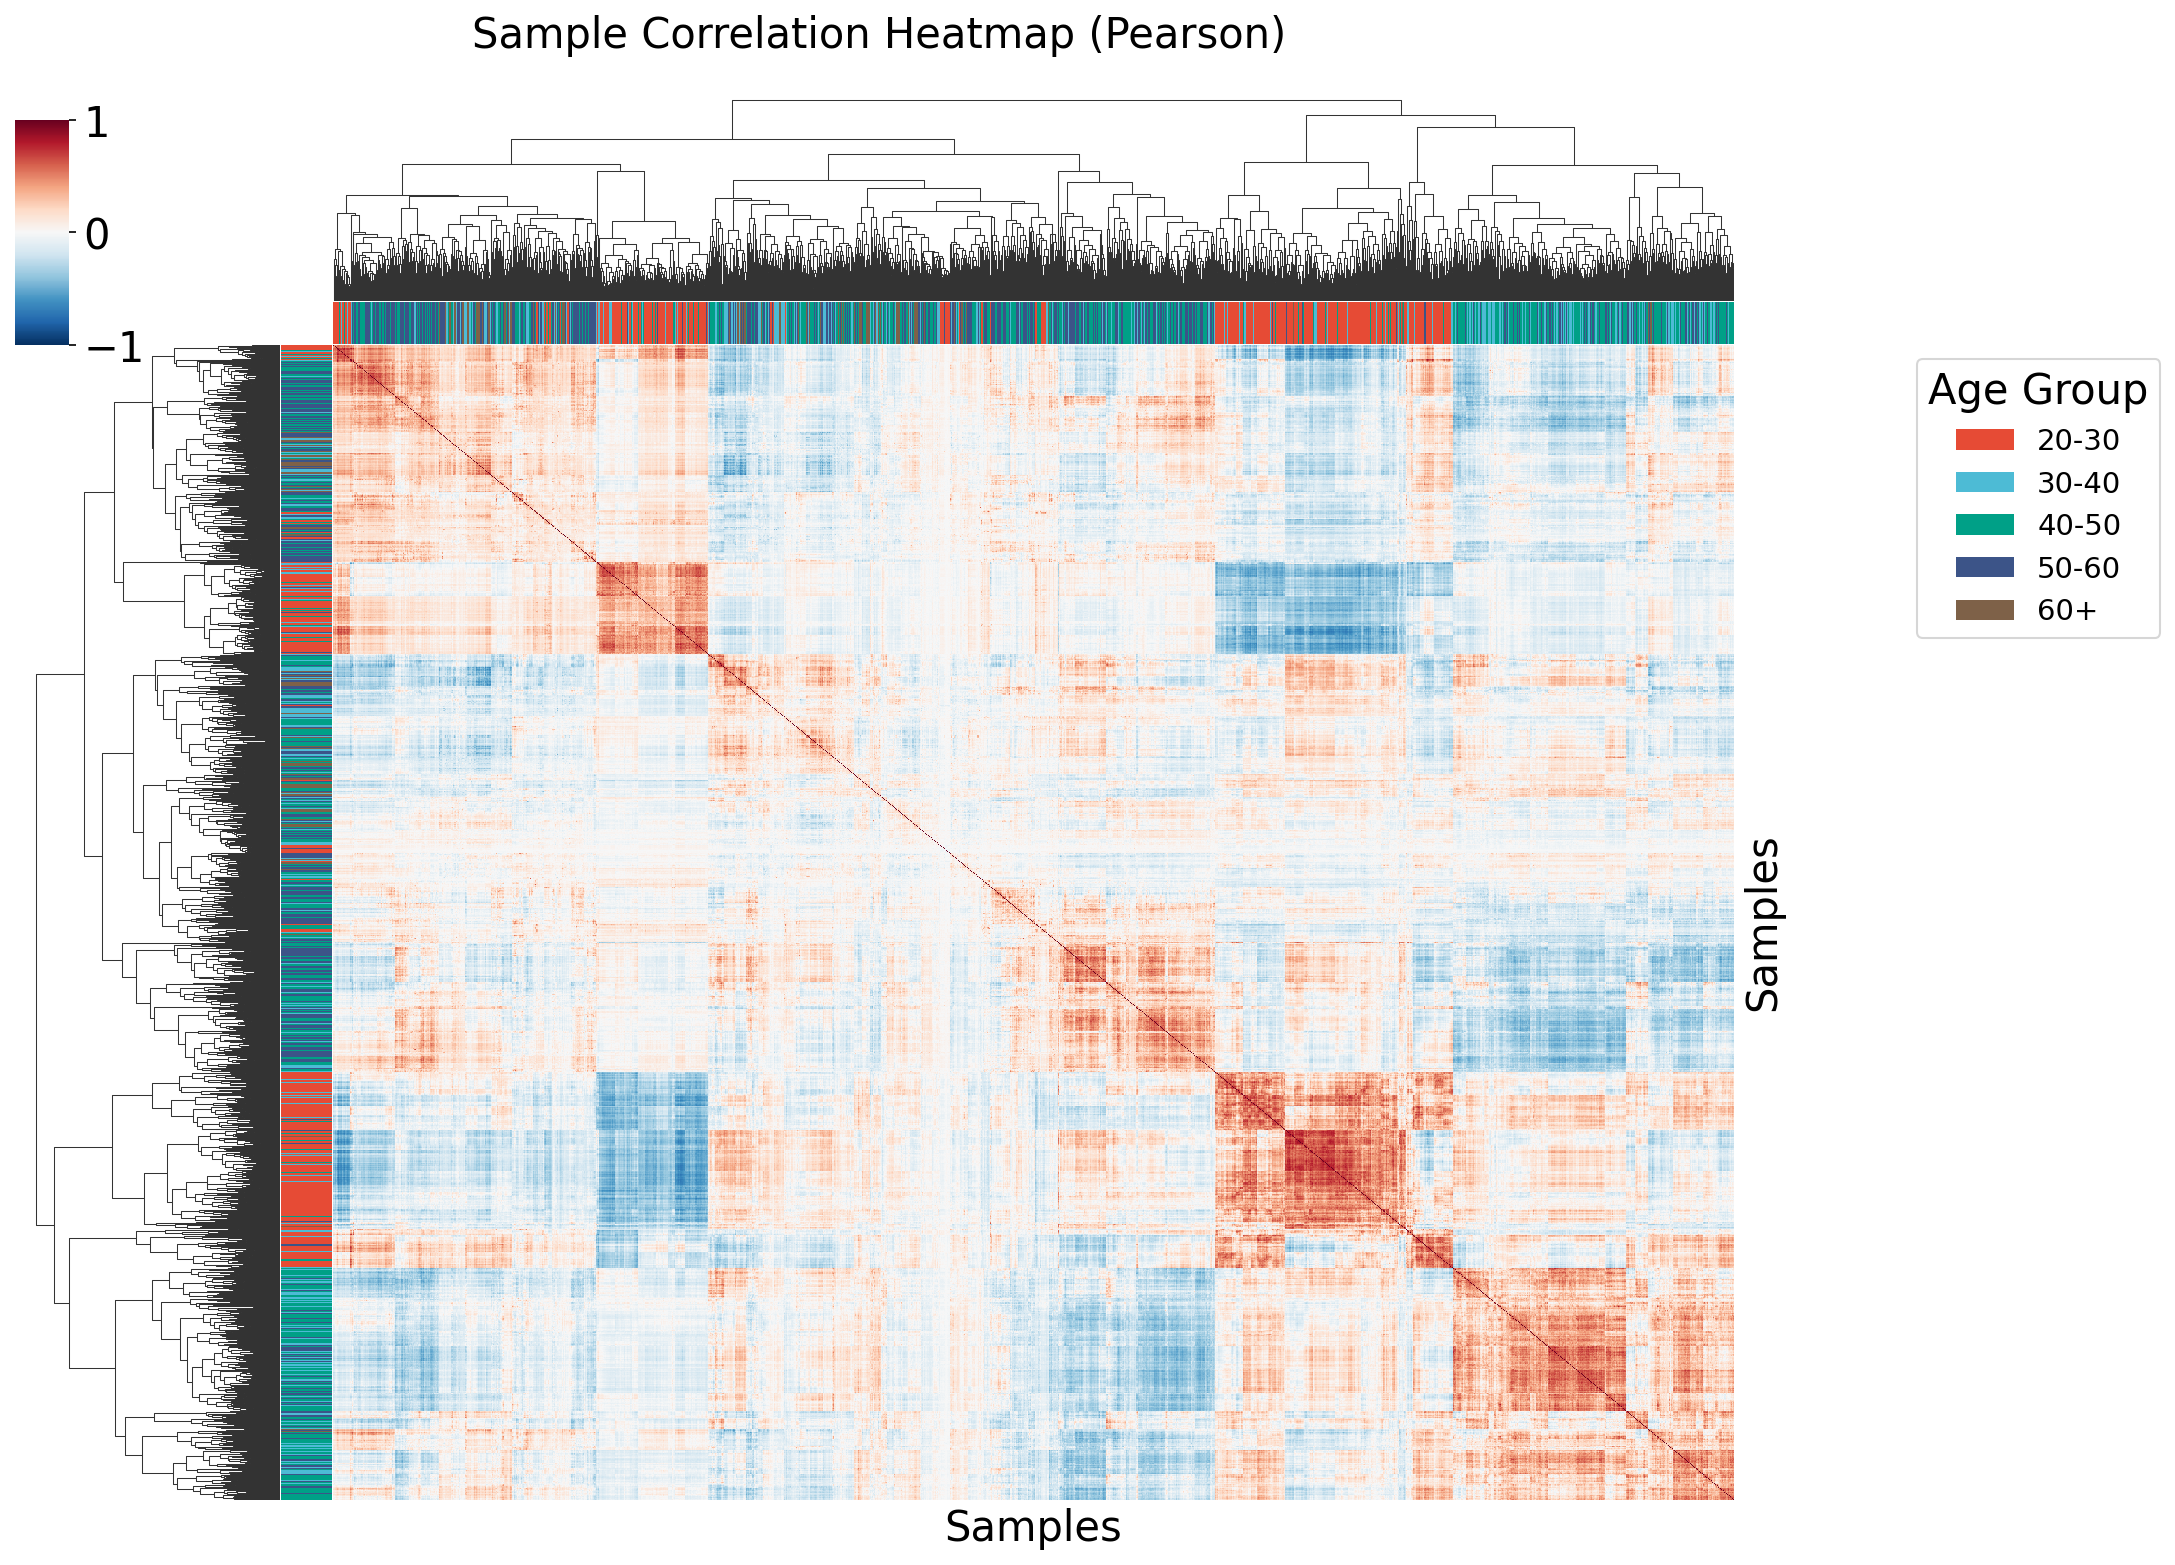
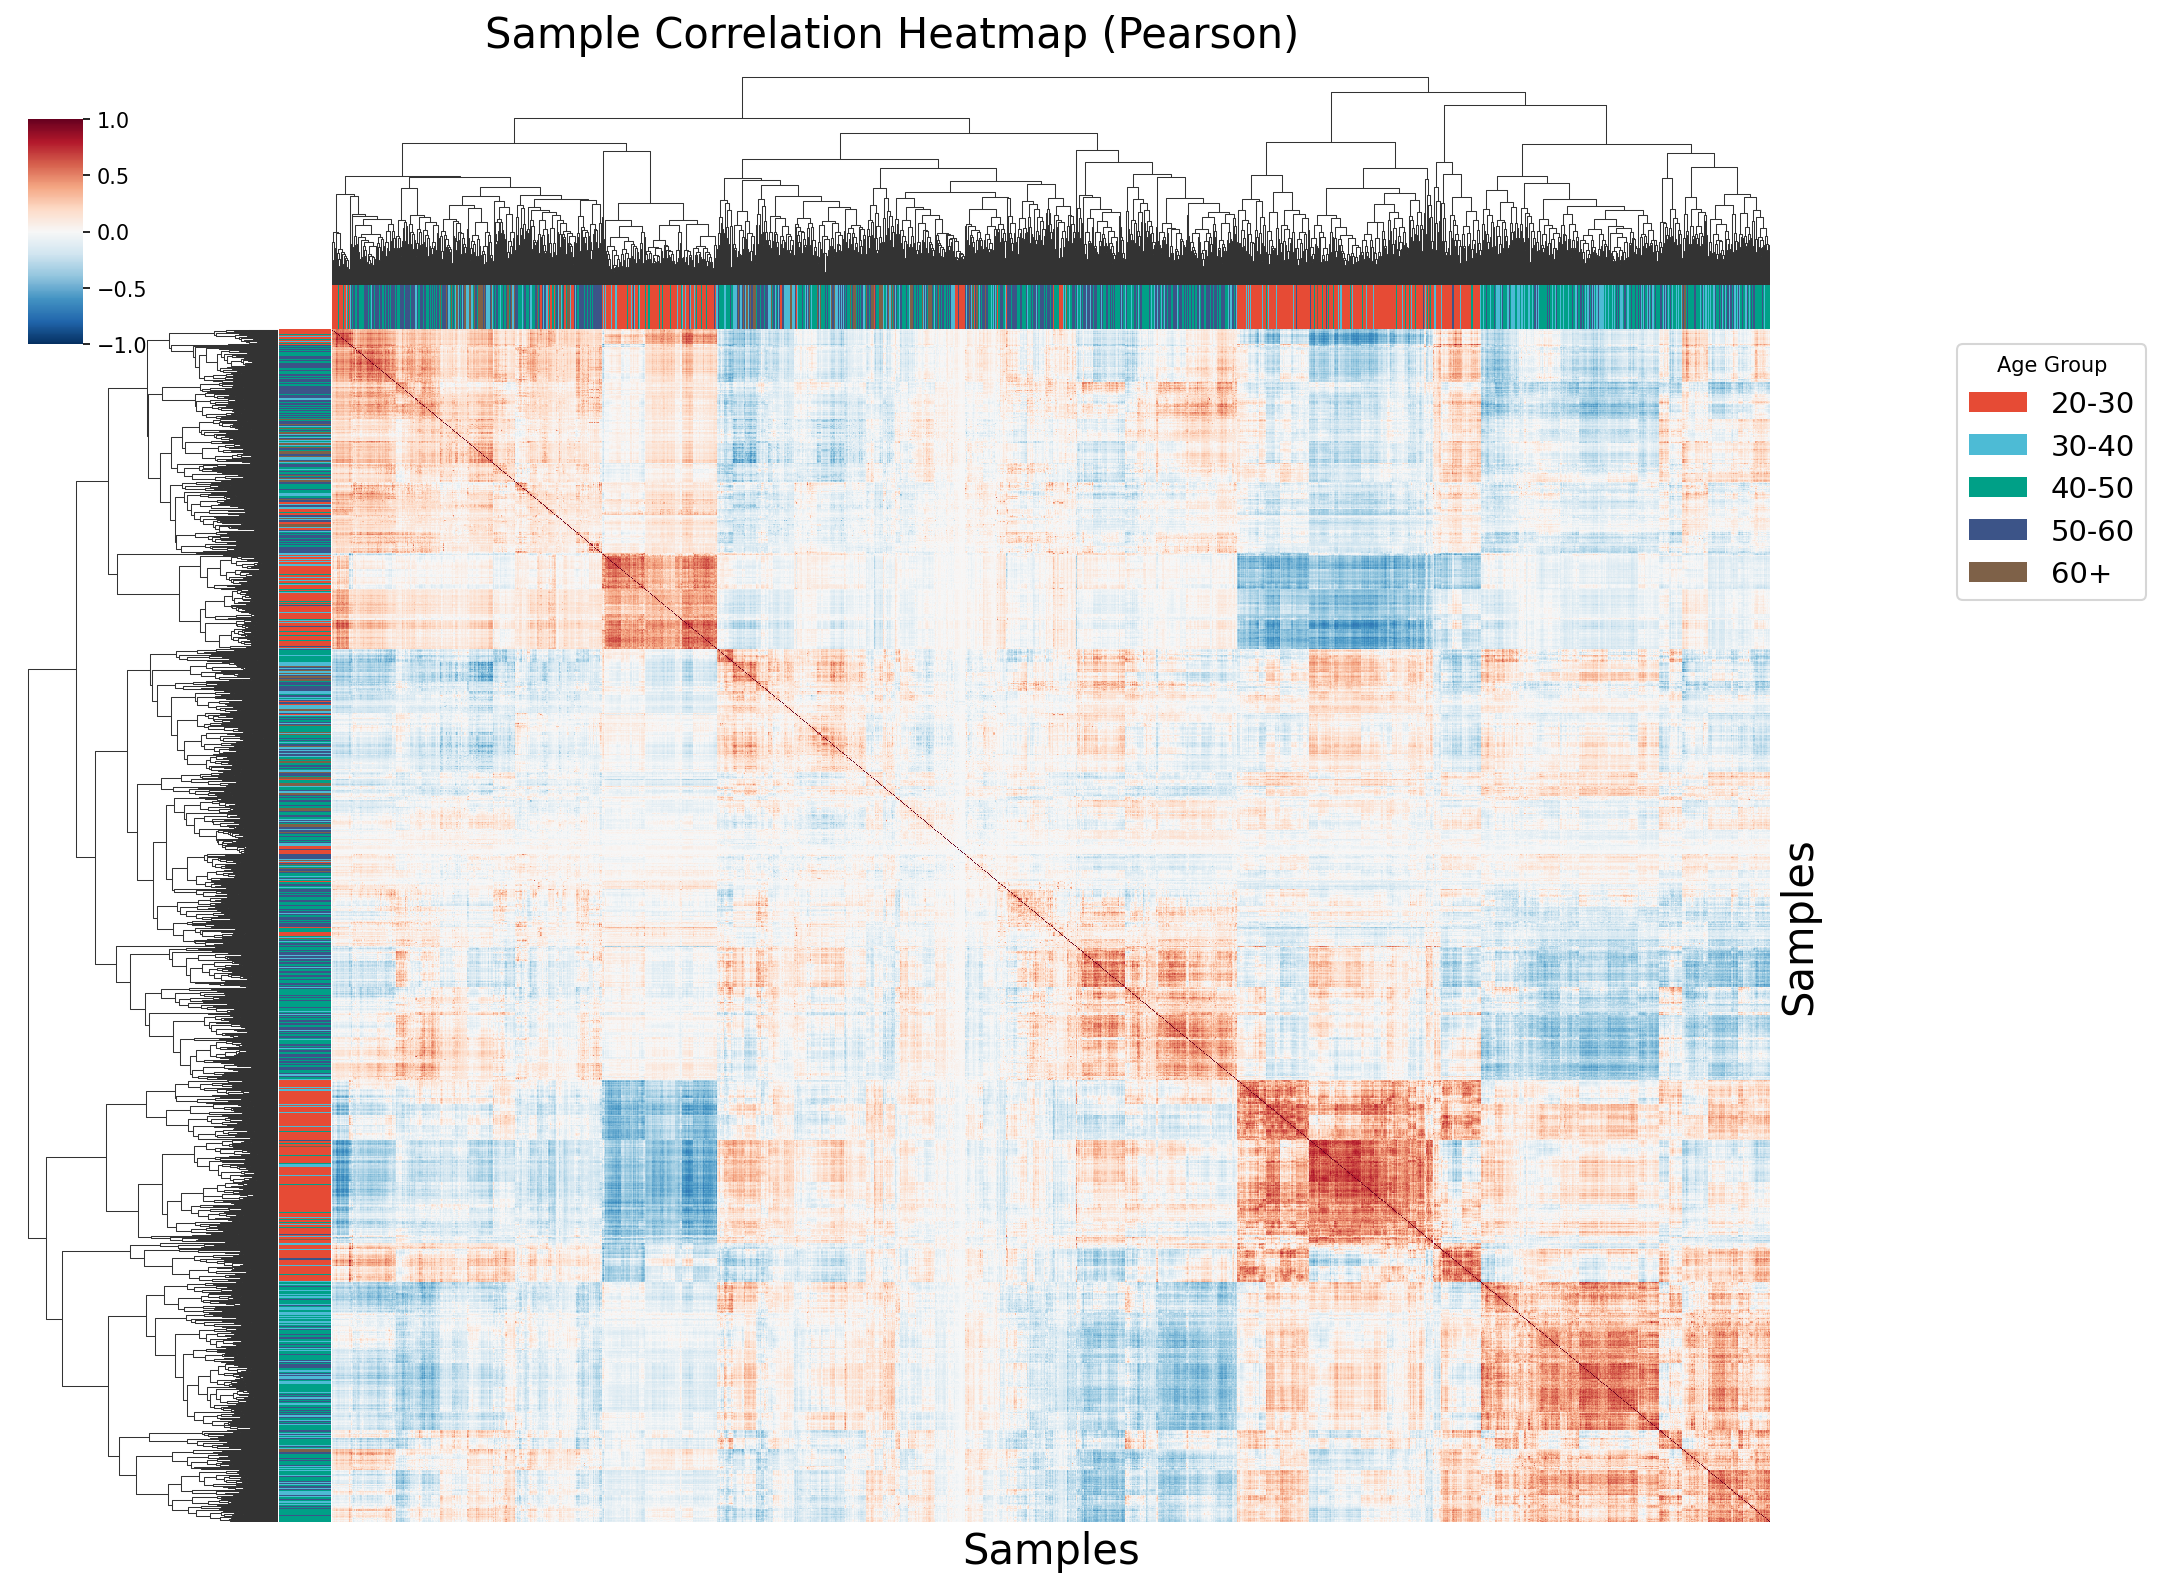
refactor(visualization): 移除未使用的基因过滤和密度图功能
清理不再使用的代码，包括基因过滤逻辑和密度图绘制功能，简化可视化脚本

Changed region(s): [[0.0, 0.0613, 0.8371, 1.0], [0.8681, 0.2147, 0.9921, 0.3987], [0.217, 0.0, 0.5891, 0.0307]]

diff --git a/scripts/analysis/visualization/plot_expression_qc.py b/scripts/analysis/visualization/plot_expression_qc.py
@@ -5,15 +5,12 @@ import pandas as pd
 import matplotlib.pyplot as plt
 import seaborn as sns
 from scipy.stats import spearmanr, pearsonr
-from scipy.cluster.hierarchy import linkage, dendrogram
 
 sys.path.insert(0, os.path.abspath(os.path.join(os.path.dirname(__file__), '../..')))
 
 from scripts.config import PLOTS_DIR, PREPROCESSED_DIR, Config
 
 Config.ensure_directories_exist()
-
-NPG_COLORS = ['#E64B35', '#4DBBD5', '#00A087', '#3C5488', '#7E6148', '#B09C85', '#F39B7F', '#8491B4', '#91D1C2', '#DC0000']
 
 def load_expression_data():
     """加载表达量数据"""
@@ -22,56 +19,6 @@ def load_expression_data():
         df = pd.read_csv(merged_csv, index_col=0)
         return df
     return None
-
-def filter_low_expression_genes(df, threshold=0.1, min_samples_ratio=0.5):
-    """过滤低表达基因
-
-    Args:
-        df: 表达量DataFrame
-        threshold: 表达阈值
-        min_samples_ratio: 低于阈值的样本比例阈值
-    """
-    gene_cols = [c for c in df.columns if c != 'age']
-    low_exp_genes = []
-
-    for gene in gene_cols:
-        expr_values = df[gene].values
-        ratio_below = np.sum(np.abs(expr_values) < threshold) / len(expr_values)
-        if ratio_below >= min_samples_ratio:
-            low_exp_genes.append(gene)
-
-    high_exp_genes = [g for g in gene_cols if g not in low_exp_genes]
-    return high_exp_genes, low_exp_genes
-
-def plot_expression_density(df, high_exp_genes, output_path):
-    """绘制基因表达量密度图（过滤前后对比）"""
-    gene_cols = [c for c in df.columns if c != 'age']
-
-    fig, axes = plt.subplots(1, 2, figsize=(14, 5))
-    plt.rcParams['font.size'] = 20
-
-    ax1 = axes[0]
-    for i, gene in enumerate(gene_cols[:20]):
-        color = NPG_COLORS[i % len(NPG_COLORS)]
-        sns.kdeplot(df[gene].values, ax=ax1, color=color, alpha=0.6, linewidth=1.5)
-    ax1.set_xlabel('Expression Level (Z-score)', fontsize=20)
-    ax1.set_ylabel('Density', fontsize=20)
-    ax1.set_title(f'Before Filtering\n(All {len(gene_cols)} genes)', fontsize=20)
-    ax1.tick_params(axis='both', labelsize=16)
-
-    ax2 = axes[1]
-    for i, gene in enumerate(high_exp_genes[:20]):
-        color = NPG_COLORS[i % len(NPG_COLORS)]
-        sns.kdeplot(df[gene].values, ax=ax2, color=color, alpha=0.6, linewidth=1.5)
-    ax2.set_xlabel('Expression Level (Z-score)', fontsize=20)
-    ax2.set_ylabel('Density', fontsize=20)
-    ax2.set_title(f'After Filtering\n({len(high_exp_genes)} high-expression genes)', fontsize=20)
-    ax2.tick_params(axis='both', labelsize=16)
-
-    plt.tight_layout()
-    plt.savefig(output_path, dpi=150, bbox_inches='tight')
-    plt.close()
-    print(f"密度图已保存到: {output_path}")
 
 def compute_sample_correlations(df, method='spearman'):
     """计算样本间相关性矩阵"""
@@ -153,14 +100,6 @@ def main():
         return
 
     print(f"加载数据: {df.shape[0]} 样本, {len(df.columns)-1} 基因")
-
-    print("\n过滤低表达基因...")
-    high_exp_genes, low_exp_genes = filter_low_expression_genes(df)
-    print(f"保留 {len(high_exp_genes)} 个高表达基因, 过滤 {len(low_exp_genes)} 个低表达基因")
-
-    print("\n绘制表达量密度图...")
-    density_path = os.path.join(PLOTS_DIR, 'gene_expression_density.png')
-    plot_expression_density(df, high_exp_genes, density_path)
 
     print("\n绘制Spearman相关性热图...")
     spearman_path = os.path.join(PLOTS_DIR, 'sample_correlation_heatmap_spearman.png')
